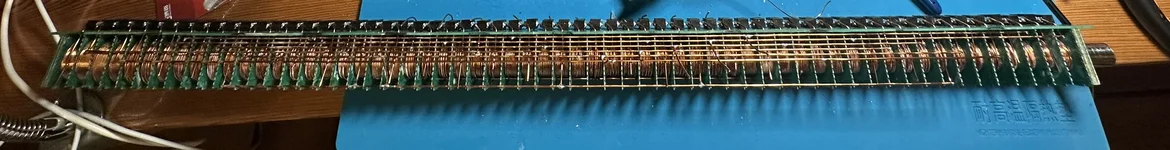
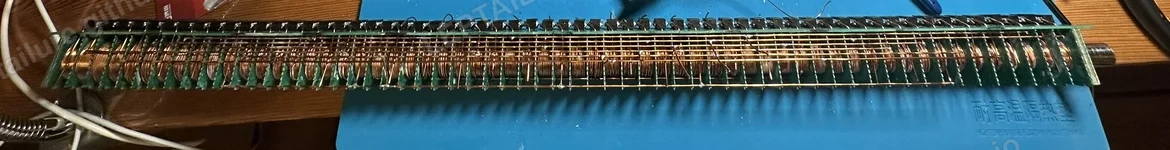
Apply existing light watermark to remaining 25R1 images

Changed region(s): [[0.0, 0.0, 0.1538, 0.5333], [0.3385, 0.0, 0.4615, 0.3467], [0.8308, 0.9333, 0.8923, 1.0]]

diff --git a/projects/reluctance-25r1.html b/projects/reluctance-25r1.html
@@ -31,7 +31,7 @@
     <p class="lead">Prototype à 60 étages de bobines</p>
   </header>
   <figure class="prototype-photo">
-    <img src="../assets/reluctance-25r1.webp" alt="Vue panoramique du prototype 25R1, avec ses bobines en cuivre alignées" width="1170" height="150" decoding="async">
+    <img src="../assets/reluctance-25r1.webp?v=wm-20261120" alt="Vue panoramique du prototype 25R1, avec ses bobines en cuivre alignées" width="1170" height="150" decoding="async">
     <figcaption>Figure 1 — Vue d’ensemble du prototype 25R1 sur le banc.</figcaption>
   </figure>
   <section class="project-section" aria-labelledby="resume">
@@ -53,14 +53,14 @@
     <p>La figure 4.41 présente séparément les deux bras du demi-pont, repérés A à gauche et B à droite.</p>
     <figure class="matrix-figure matrix-figure--arms">
       <div class="matrix-diagram" style="--diagram-ratio: 760 / 374">
-        <img src="./codex-clipboard-c9f3b6b1-19d3-4b35-8894-77fe9b799223.png" alt="Bras A à gauche et bras B à droite" width="760" height="434" decoding="async">
+        <img src="./codex-clipboard-c9f3b6b1-19d3-4b35-8894-77fe9b799223.png?v=wm-20261120" alt="Bras A à gauche et bras B à droite" width="760" height="434" decoding="async">
       </div>
       <figcaption><strong>Figure 4.41 — Bras supérieur et inférieur du commutateur matriciel</strong></figcaption>
     </figure>
     <p>La figure 4.42 illustre le principe général de la topologie matricielle.</p>
     <figure class="matrix-figure matrix-figure--circuit">
       <div class="matrix-diagram" style="--diagram-ratio: 993 / 721">
-        <img src="./codex-clipboard-3cbeaaf1-6ba3-4453-ba5f-85c3793e6e8d.png" alt="Schéma de la matrice avec les blocs A en lignes et les blocs B en colonnes" width="993" height="767" decoding="async">
+        <img src="./codex-clipboard-3cbeaaf1-6ba3-4453-ba5f-85c3793e6e8d.png?v=wm-20261120" alt="Schéma de la matrice avec les blocs A en lignes et les blocs B en colonnes" width="993" height="767" decoding="async">
       </div>
       <figcaption>
         <strong>Figure 4.42 — Schéma de principe de la topologie matricielle</strong>

diff --git a/index.html b/index.html
@@ -63,7 +63,7 @@
         <p>Prototype à 60 étages de bobines. La note présente le montage, l’objectif de réduction du nombre d’interrupteurs de puissance et les applications industrielles de la motorisation linéaire.</p>
       </div>
       <figure class="feature-photo">
-        <a href="projects/reluctance-25r1.html" aria-label="Ouvrir la fiche 25R1"><img src="assets/reluctance-25r1.webp" alt="Vue panoramique des bobines montées sur le prototype 25R1" width="1170" height="150" loading="lazy" decoding="async"></a>
+        <a href="projects/reluctance-25r1.html" aria-label="Ouvrir la fiche 25R1"><img src="assets/reluctance-25r1.webp?v=wm-20261120" alt="Vue panoramique des bobines montées sur le prototype 25R1" width="1170" height="150" loading="lazy" decoding="async"></a>
         <figcaption>Prototype 25R1 · Vue d’ensemble des bobines</figcaption>
       </figure>
       <div class="featured-footer"><p>Version antérieure au <a href="projects/reluctance.html">prototype 26R1</a>.</p><a class="button project-action" href="projects/reluctance-25r1.html">Voir la fiche 25R1</a></div>
